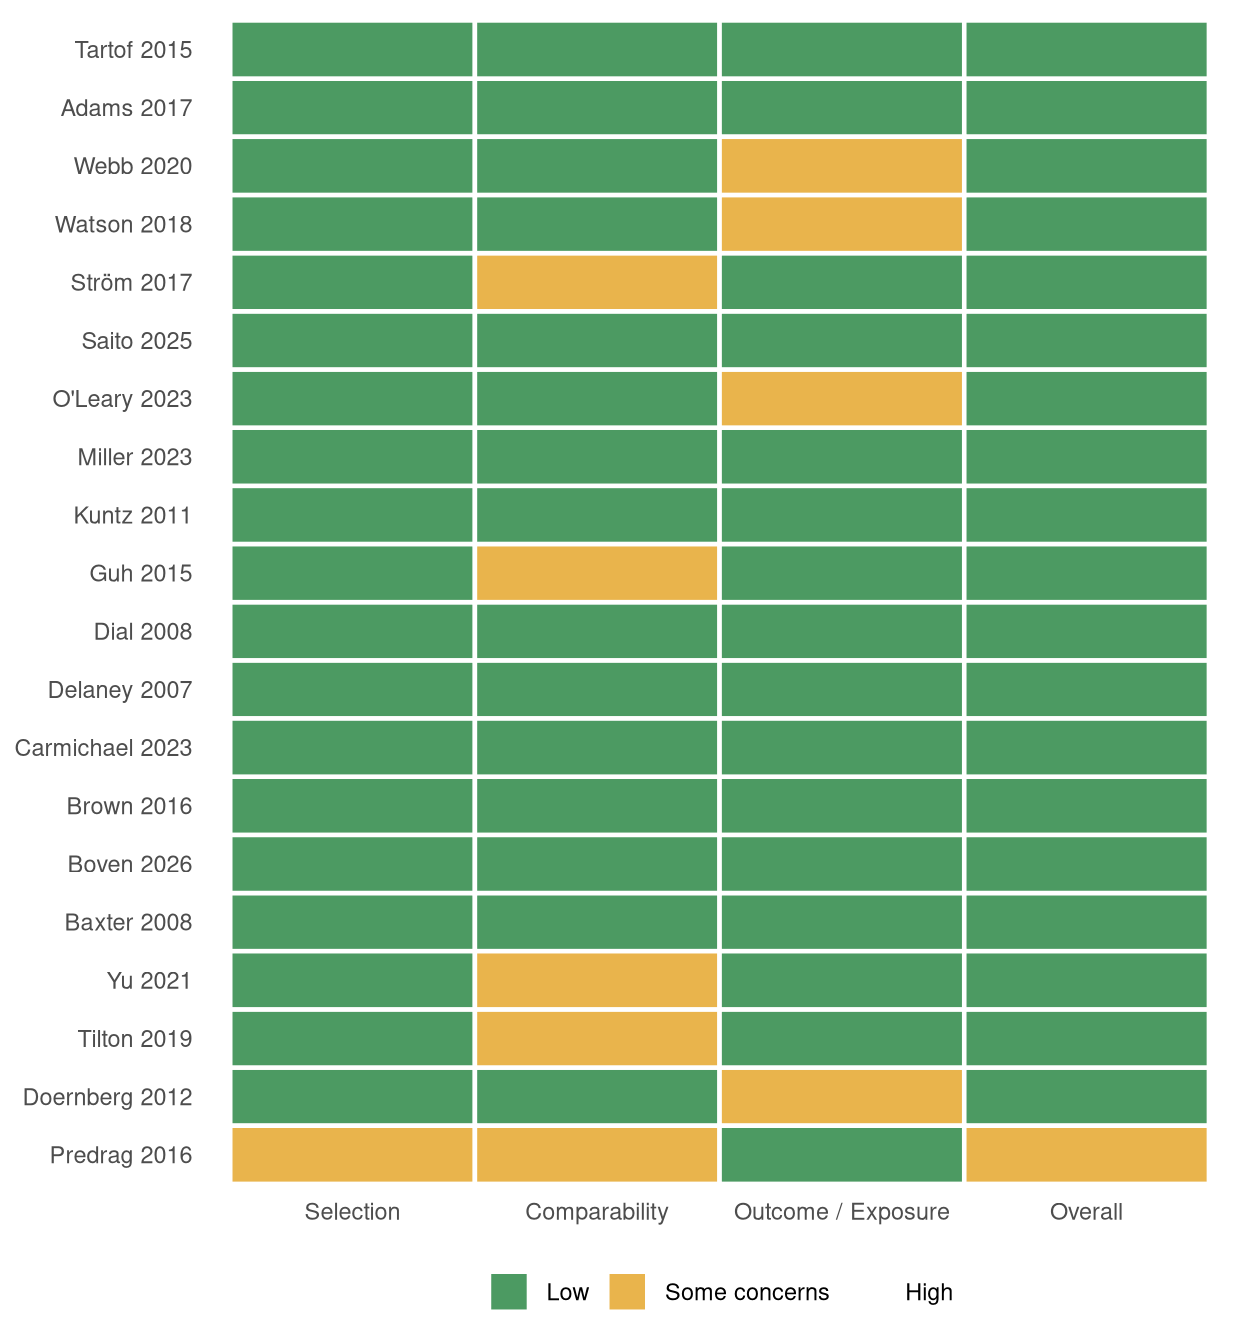
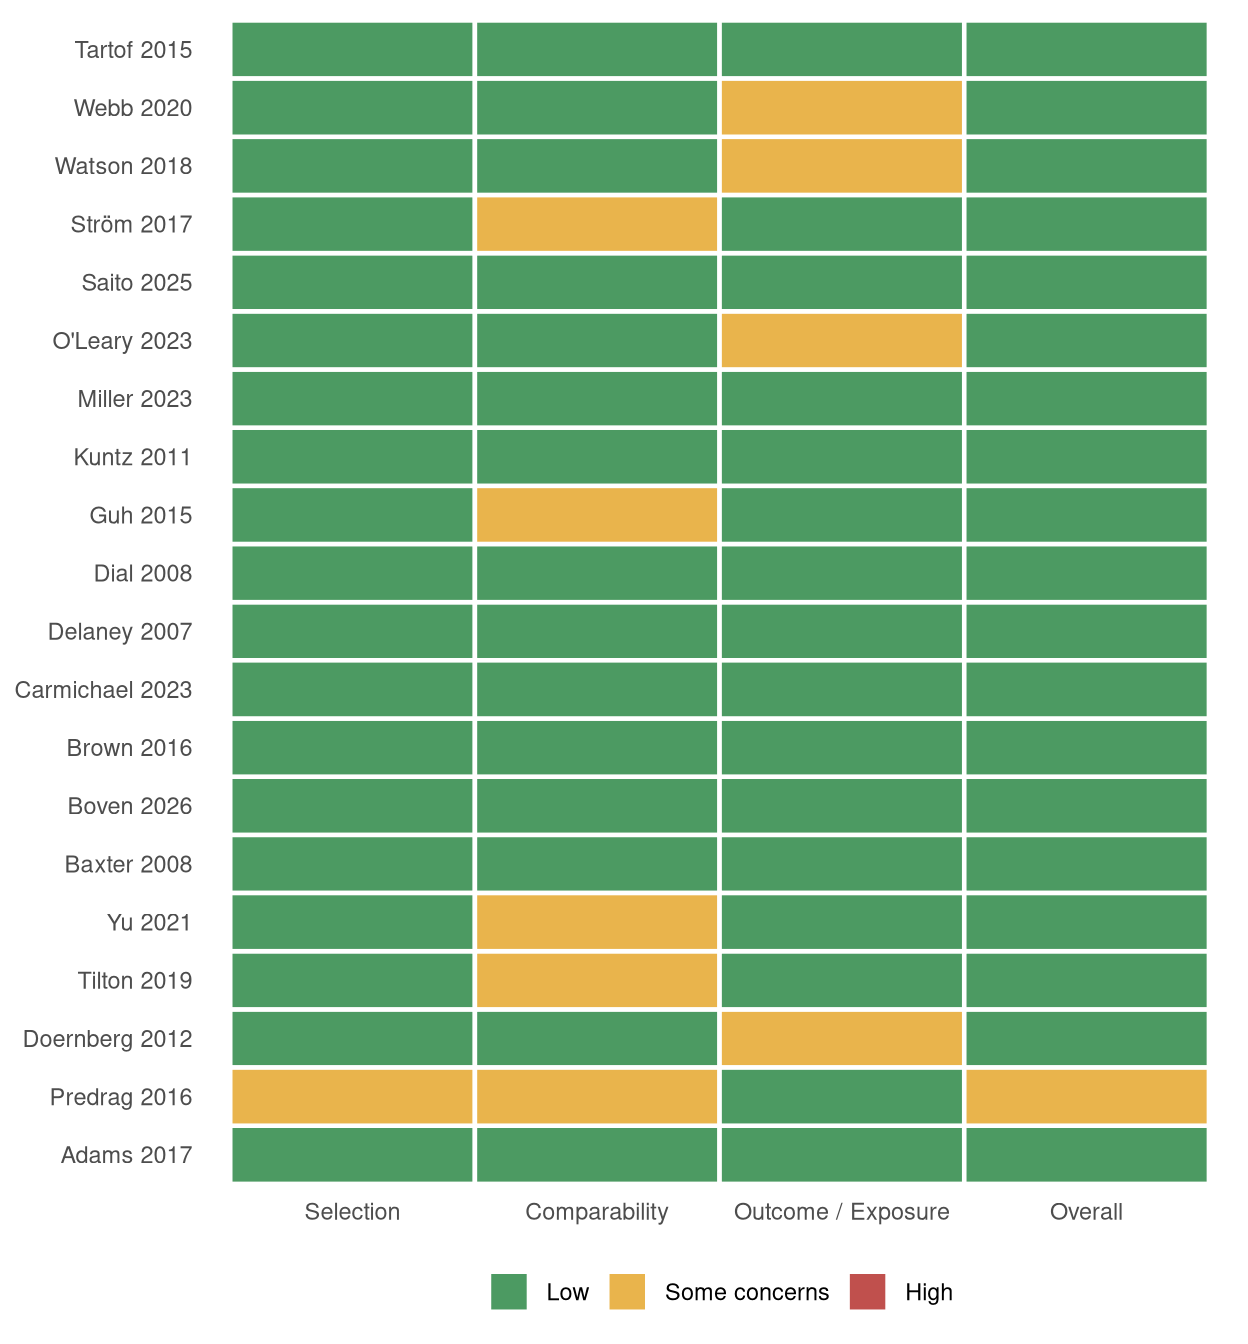
Update site output with fixed figures and expanded diagnostics

diff --git a/docs/report.html b/docs/report.html
@@ -758,24 +758,6 @@ window.Quarto = {
 <p>19 studi su 20 raggiungono almeno 7 stelle (basso rischio di bias). Le limitazioni ricorrenti sono definizioni di caso basate su codici diagnostici non validati (selezione), controlli ospedalieri negli studi caso-controllo più piccoli (selezione), affidamento a stime per singolo farmaco non aggiustate (comparabilità) e incerta completezza della cattura dell’esito dopo la dimissione nelle coorti ospedaliere (esito). Per i sei studi trasferiti da Tariq et al.&nbsp;(2018), i nostri punteggi indipendenti (mediana 8, intervallo 7-9) sono coerenti con i loro (mediana 7, intervallo 7-8) <span class="citation" data-cites="Tariq2018">(<a href="#ref-Tariq2018" role="doc-biblioref">Tariq and Khanna 2018</a>)</span>.</p>
 <p>L’analisi di sensibilità pre-specificata che esclude gli studi a maggior rischio di bias (NOS inferiore a 7) rimuove solo Predrag 2016: la stima primaria è invariata perché tutti gli 11 studi con comparatore antibiotico sono a basso rischio (OR 0.86 (0.60–1.23)), e il confronto secondario (vs nessun antibiotico) diventa OR 1.05 (0.74–1.54) (k = 8). Le conclusioni sono quindi robuste rispetto alla qualità degli studi così come valutata qui.</p>
 </div>
-<div class="callout callout-style-default callout-warning callout-titled">
-<div class="callout-header d-flex align-content-center">
-<div class="callout-icon-container">
-<i class="callout-icon"></i>
-</div>
-<div class="callout-title-container flex-fill">
-Warning
-</div>
-</div>
-<div class="callout-body-container callout-body">
-<div class="en">
-<p><strong>Provisional assessment.</strong> The protocol requires independent, duplicate full-text assessment by two reviewers. The scores above are a single-reviewer assessment based on the extraction database — whose covariate matrix is still unpopulated and whose estimate rows are all marked unverified — and should be re-confirmed against the full articles before being considered final.</p>
-</div>
-<div class="it">
-<p><strong>Valutazione provvisoria.</strong> Il protocollo richiede una valutazione indipendente, in doppio, sul full-text da parte di due revisori. I punteggi sopra riportati derivano da una valutazione di un singolo revisore basata sul database di estrazione — la cui matrice delle covariate non è ancora popolata e le cui righe di stima risultano tutte non verificate — e devono essere riconfermati sugli articoli integrali prima di essere considerati definitivi.</p>
-</div>
-</div>
-</div>
 <div class="callout callout-style-default callout-note callout-titled">
 <div class="callout-header d-flex align-content-center">
 <div class="callout-icon-container">
@@ -974,10 +956,14 @@ Table&nbsp;2
 <section id="mcmc-confirmation-convergenceconferma-mcmc-e-convergenza" class="level2">
 <h2 class="anchored" data-anchor-id="mcmc-confirmation-convergenceconferma-mcmc-e-convergenza"><span class="en">MCMC confirmation &amp; convergence</span><span class="it">Conferma MCMC e convergenza</span></h2>
 <div class="en">
-<p>The two engines agree to within Monte Carlo error, confirming the exact posterior. All diagnostics indicate good convergence.</p>
+<p><strong>Sampling.</strong> The confirmatory fit uses Hamiltonian Monte Carlo (Stan, via <code>brms</code>) with the same priors as the exact model: 4 chains of 4,000 iterations (1,000 warmup), giving 12,000 post-warmup draws, with <code>adapt_delta = 0.99</code> to handle the funnel-shaped geometry typical of hierarchical models with few studies. The run produced <strong>0 divergent transitions</strong> and 0 iterations at the maximum tree depth, so the sampler explored the posterior without numerical failures.</p>
+<p><strong>Convergence.</strong> R-hat compares within- and between-chain variance; both parameters are essentially 1.00 (max 1.000, below the conventional 1.01 threshold), so the four chains have converged to the same target distribution. Bulk ESS (2516 for μ, 3217 for τ) and tail ESS (3702 / 5375) are large, meaning both the centre of the posterior and the extreme quantiles — on which the 95% credible interval and P(OR&lt;1) depend — rest on the equivalent of thousands of independent draws; the Monte Carlo standard error of the pooled log-OR is only 0.004. The trace plots (Figure 2) confirm this visually: the four chains overlap around stable levels, with no trends, drift or sticking.</p>
+<p><strong>Agreement between engines.</strong> <code>bayesmeta</code> computes the posterior by deterministic numerical integration (no Monte Carlo error at all), whereas <code>brms</code>/Stan approximates it by sampling. That the two agree closely (table below) shows the reported posterior is a property of the model and the data rather than of the computational method — and it validates the exact <code>bayesmeta</code> posteriors used throughout this report.</p>
 </div>
 <div class="it">
-<p>I due motori concordano entro l’errore Monte Carlo, confermando la posteriori esatta. Tutti gli indici indicano una buona convergenza.</p>
+<p><strong>Campionamento.</strong> Il modello di conferma usa Hamiltonian Monte Carlo (Stan, tramite <code>brms</code>) con gli stessi prior del modello esatto: 4 catene da 4.000 iterazioni (1.000 di warmup), per un totale di 12.000 draw post-warmup, con <code>adapt_delta = 0,99</code> per gestire la geometria “a imbuto” tipica dei modelli gerarchici con pochi studi. L’esecuzione ha prodotto <strong>0 transizioni divergenti</strong> e 0 iterazioni alla profondità massima dell’albero: il campionatore ha esplorato la posteriori senza problemi numerici.</p>
+<p><strong>Convergenza.</strong> R-hat confronta la varianza entro e tra le catene; entrambi i parametri sono sostanzialmente a 1,00 (max 1.000, sotto la soglia convenzionale di 1,01), quindi le quattro catene sono convergenti alla stessa distribuzione obiettivo. Gli ESS bulk (2516 per μ, 3217 per τ) e tail (3702 / 5375) sono ampi: sia il centro della posteriori sia i quantili estremi — da cui dipendono l’ICr al 95% e P(OR&lt;1) — poggiano sull’equivalente di migliaia di draw indipendenti; l’errore standard Monte Carlo del log-OR aggregato è solo 0.004. I trace plot (Figura 2) lo confermano visivamente: le quattro catene si sovrappongono attorno a livelli stabili, senza trend, deriva o blocchi.</p>
+<p><strong>Accordo tra i motori.</strong> <code>bayesmeta</code> calcola la posteriori per integrazione numerica deterministica (senza alcun errore Monte Carlo), mentre <code>brms</code>/Stan la approssima per campionamento. Il fatto che i due concordino strettamente (tabella sotto) mostra che la posteriori riportata è una proprietà del modello e dei dati, non del metodo computazionale — e convalida le posteriori esatte di <code>bayesmeta</code> usate in tutto il report.</p>
 </div>
 <div class="en">
 <div class="cell">
@@ -1024,6 +1010,7 @@ Table&nbsp;3
 <th style="text-align: center;">R-hat</th>
 <th style="text-align: center;">Bulk ESS</th>
 <th style="text-align: center;">Tail ESS</th>
+<th style="text-align: center;">MCSE (mean)</th>
 </tr>
 </thead>
 <tbody>
@@ -1032,12 +1019,14 @@ Table&nbsp;3
 <td style="text-align: center;">1.000</td>
 <td style="text-align: center;">2516</td>
 <td style="text-align: center;">3702</td>
+<td style="text-align: center;">0.004</td>
 </tr>
 <tr class="even">
 <td style="text-align: left;">τ (heterogeneity SD)</td>
 <td style="text-align: center;">1.000</td>
 <td style="text-align: center;">3217</td>
 <td style="text-align: center;">5375</td>
+<td style="text-align: center;">0.002</td>
 </tr>
 </tbody>
 </table>
@@ -1092,6 +1081,7 @@ Table&nbsp;4
 <th style="text-align: center;">R-hat</th>
 <th style="text-align: center;">ESS bulk</th>
 <th style="text-align: center;">ESS tail</th>
+<th style="text-align: center;">MCSE (media)</th>
 </tr>
 </thead>
 <tbody>
@@ -1100,12 +1090,14 @@ Table&nbsp;4
 <td style="text-align: center;">1.000</td>
 <td style="text-align: center;">2516</td>
 <td style="text-align: center;">3702</td>
+<td style="text-align: center;">0.004</td>
 </tr>
 <tr class="even">
 <td style="text-align: left;">τ (SD eterogeneità)</td>
 <td style="text-align: center;">1.000</td>
 <td style="text-align: center;">3217</td>
 <td style="text-align: center;">5375</td>
+<td style="text-align: center;">0.002</td>
 </tr>
 </tbody>
 </table>
@@ -1131,10 +1123,10 @@ Figure&nbsp;2
 </div>
 <div class="cap">
 <div class="en">
-<p><strong>Figure 2.</strong> MCMC trace plots for the four chains (pooled log-OR and heterogeneity SD).</p>
+<p><strong>Figure 2.</strong> MCMC trace plots for the four chains (pooled log-OR μ and heterogeneity SD τ). Overlapping chains fluctuating around stable levels — with no trends, drift or sticking — indicate good mixing and stationarity.</p>
 </div>
 <div class="it">
-<p><strong>Figura 2.</strong> Trace plot MCMC per le quattro catene (log-OR aggregato e SD dell’eterogeneità).</p>
+<p><strong>Figura 2.</strong> Trace plot MCMC per le quattro catene (log-OR aggregato μ e SD dell’eterogeneità τ). Catene sovrapposte che oscillano attorno a livelli stabili — senza trend, deriva o blocchi — indicano buon mixing e stazionarietà.</p>
 </div>
 </div>
 </section>
